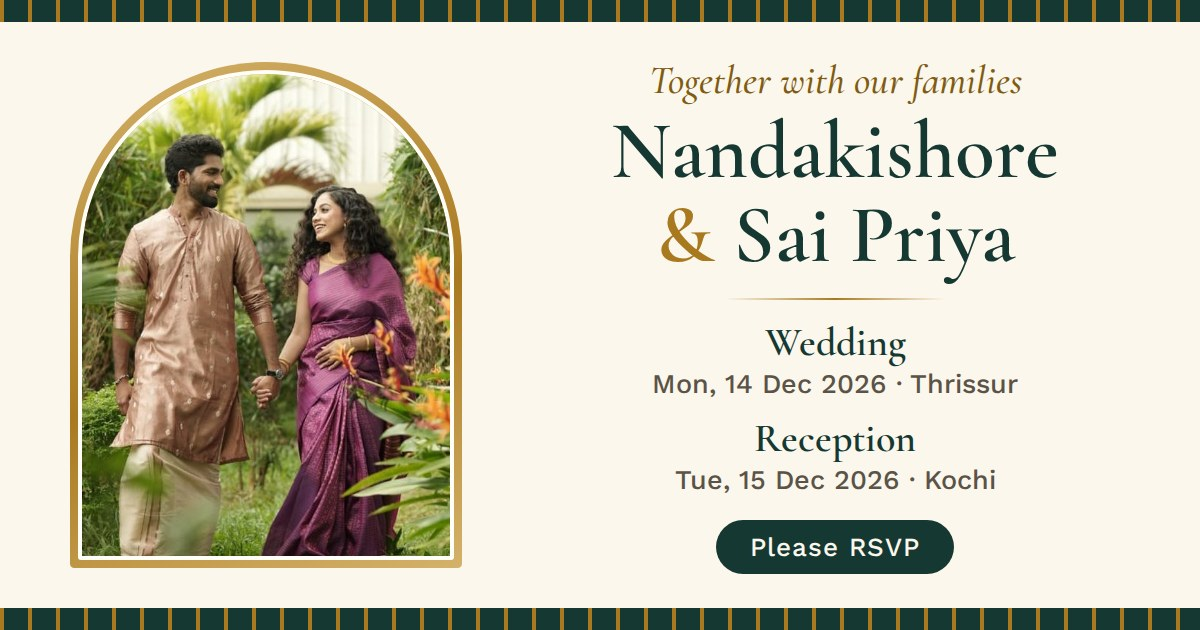
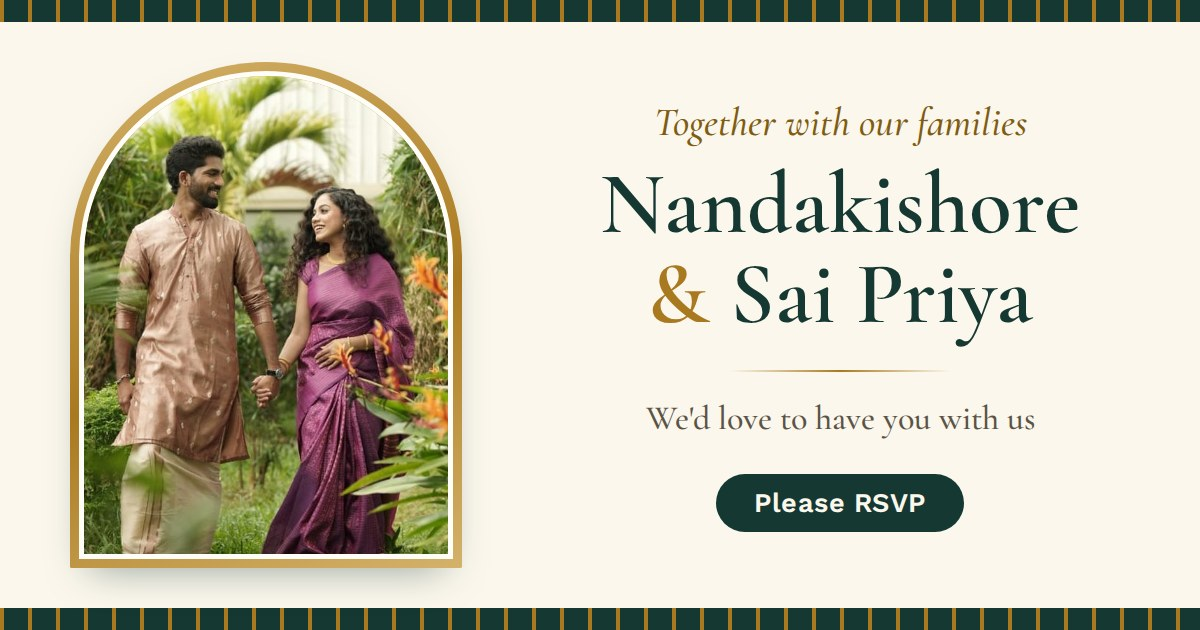
Remove event details from the link-preview image
The WhatsApp/social preview no longer lists the wedding and reception
dates and venues. The image URL gets a version tag so apps fetch the
new picture instead of a cached one.

Claude-Session: https://claude.ai/code/session_01BiR8sTkvnWt1ZUmxUsZLDr

Changed region(s): [[0.4933, 0.0905, 0.8942, 0.9349], [0.0617, 0.0905, 0.4008, 0.9349], [0.185, 0.7238, 0.2158, 0.754]]

diff --git a/index.html b/index.html
@@ -12,7 +12,7 @@
 <meta property="og:title" content="Nandakishore &amp; Sai Priya — please RSVP">
 <meta property="og:description" content="We'd love to have you with us. Please RSVP here.">
 <meta property="og:url" content="https://nandakishores97.github.io/Sai-and-nandakishore-wedding/">
-<meta property="og:image" content="https://nandakishores97.github.io/Sai-and-nandakishore-wedding/og-image.jpg">
+<meta property="og:image" content="https://nandakishores97.github.io/Sai-and-nandakishore-wedding/og-image.jpg?v=2">
 <meta property="og:image:width" content="1200">
 <meta property="og:image:height" content="630">
 <meta name="twitter:card" content="summary_large_image">
